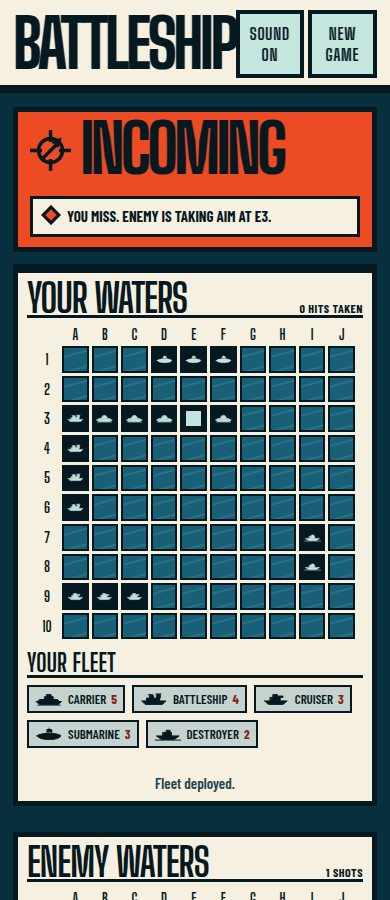
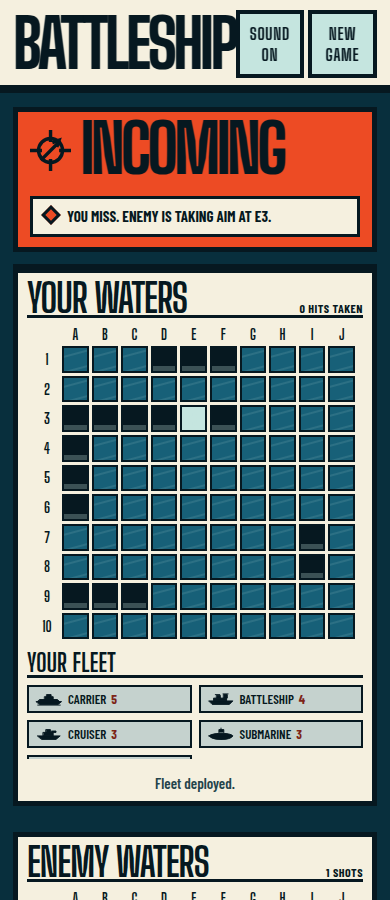
Restore sea board state legibility

diff --git a/src/styles.css b/src/styles.css
@@ -310,9 +310,9 @@ kbd {
 }
 
 .fleet-list {
-  display: flex;
+  display: grid;
+  grid-template-columns: repeat(2, minmax(0, 1fr));
   gap: 7px;
-  flex-wrap: wrap;
   margin-top: 7px;
 }
 
@@ -328,6 +328,7 @@ kbd {
   color: var(--black);
   font-size: 13px;
   font-weight: 600;
+  min-width: 0;
 }
 
 .fleet-list > button {
@@ -552,6 +553,7 @@ kbd {
   background: var(--black);
   background-image: none;
   color: var(--yellow);
+  box-shadow: inset 0 -5px 0 rgba(197, 229, 223, 0.28);
 }
 
 .cell-hit {
@@ -589,7 +591,11 @@ kbd {
 }
 
 .cell-preview-valid {
-  box-shadow: inset 0 0 0 4px var(--orange);
+  background: var(--black);
+  color: var(--yellow);
+  box-shadow:
+    inset 0 0 0 3px var(--orange),
+    inset 0 -5px 0 rgba(197, 229, 223, 0.28);
 }
 
 .cell-preview-invalid {
@@ -601,11 +607,11 @@ kbd {
 .legend {
   display: flex;
   justify-content: center;
-  gap: 16px;
+  gap: 8px;
   flex-wrap: wrap;
   margin: 20px 0 0;
   color: var(--paper);
-  font-size: 15px;
+  font-size: 13px;
   font-weight: 600;
 }
 
@@ -615,9 +621,9 @@ kbd {
 
 .legend-swatch {
   display: inline-grid;
-  width: 25px;
-  height: 25px;
-  margin-right: 5px;
+  width: 20px;
+  height: 20px;
+  margin-right: 3px;
   place-items: center;
   border: 2px solid var(--black);
   font-style: normal;
@@ -632,10 +638,12 @@ kbd {
 .legend-miss {
   border-style: solid;
   background: var(--paper);
+  color: var(--black);
 }
 
 .legend-hit {
   background: var(--orange);
+  color: var(--black);
 }
 
 .legend-sunk {

diff --git a/src/components/Cell.tsx b/src/components/Cell.tsx
@@ -1,7 +1,6 @@
 import type { KeyboardEvent } from 'react';
-import type { CellMark, Coordinate, ShipName } from '../game/types';
+import type { CellMark, Coordinate } from '../game/types';
 import { CellMark as CellMarkIcon } from './CellMark';
-import { ShipIcon } from './ShipIcon';
 
 type CellProps = {
   coordinate: Coordinate;
@@ -12,7 +11,6 @@ type CellProps = {
   previewValid: boolean;
   latest: boolean;
   aiming: boolean;
-  shipName?: ShipName;
   onCell?: (cell: Coordinate) => void;
   onHover?: (cell: Coordinate) => void;
   onKeyDown: (event: KeyboardEvent<HTMLButtonElement>, cell: Coordinate) => void;
@@ -27,7 +25,6 @@ export function Cell({
   previewValid,
   latest,
   aiming,
-  shipName,
   onCell,
   onHover,
   onKeyDown,
@@ -53,8 +50,6 @@ export function Cell({
     >
       {aiming ? (
         <CellMarkIcon status="aim" />
-      ) : status === 'ship' && shipName ? (
-        <ShipIcon name={shipName} />
       ) : (
         status !== 'unknown' && status !== 'ship' && <CellMarkIcon status={status} />
       )}

diff --git a/src/components/Board.tsx b/src/components/Board.tsx
@@ -101,7 +101,6 @@ export function Board({
                     previewValid={previewValid}
                     latest={latestShot ? keyOf(latestShot) === key : false}
                     aiming={aimingShot ? keyOf(aimingShot) === key : false}
-                    shipName={ship && !enemy ? ship.name : undefined}
                     onHover={onHover}
                     onCell={onCell}
                     onKeyDown={handleGridKeyDown}

diff --git a/DESIGN.md b/DESIGN.md
@@ -20,8 +20,14 @@ active call to action and combat states.
 - Fleet classes use authored inline SVG silhouettes in the fleet rail, ship
   selector, and deployed hull cells. Carrier, battleship, cruiser, submarine,
   and destroyer each have a distinct compact profile.
+- Deployed hulls are solid ink vessels with a restrained foam keel treatment;
+  the class silhouette appears in the fleet rail and selector rather than
+  repeating as a dinghy stamp in every occupied cell.
 - The attack mark is an authored crosshair-and-projectile SVG used in the fire
   invitation, incoming AI beat, and board legend.
+- Fired states stay value-separated on petrol water: bone miss, hot orange hit,
+  and dead ink sunk. The legend mirrors the exact authored marks, and fleet
+  chips use a deliberate two-column/two-row rhythm at narrow rails.
 - Placement uses a compact side rail for fleet controls, legend, and the start
   action so the board pair owns the first desktop viewport.
 - Fleet entries use poster-like ruled rows and strike-through for sunk ships.
